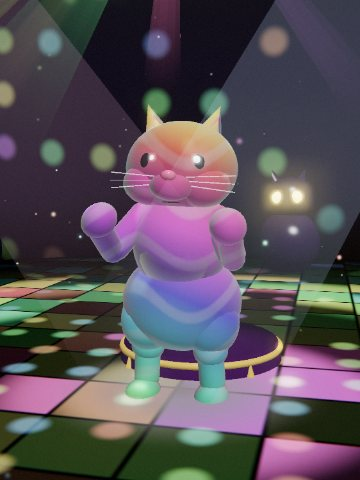
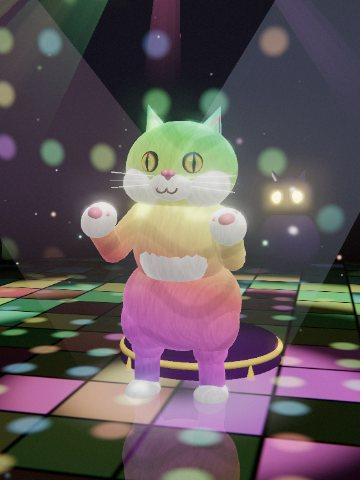
High-fidelity Disco Cat, and a real fire for Penny
Disco Cat: the fur pattern now lives in the cat's own space so it stays
put as it dances, with fine hair streaks, light that wraps round as it
does through fur, and a velvety sheen in place of the milky rim. Creamy
white chest, muzzle, cheeks and paws; eyes with flecked green-gold
irises, a dark rim, slit pupils that widen as the lights go down and
crisp catchlights; a heart-shaped nose, a little 'w' mouth, pink toe
beans. The dance floor is glossy and shows the cat's reflection (a
mirrored copy following every joint), with a soft contact shadow that
follows it. Floor smoothsteps rewritten with their edges in order.

Penny's fireplace: a real surround with an opening and a recessed,
sooty brick firebox; an iron grate of charred logs with glowing ends
over a bed of embers; flames drawn by a shader (white-yellow core,
orange body, red tips, licking upwards), sparks rising, and the fire's
light coming from inside the opening so the mantel no longer blazes.
hearth() lives in the interiors kit for other rooms.

Changed region(s): [[0.1833, 0.2188, 0.7333, 1.0], [0.7333, 0.75, 0.8556, 0.8438], [0.8861, 0.5938, 0.9472, 0.6562]]

diff --git a/web/scenes/disco.js b/web/scenes/disco.js
@@ -55,25 +55,56 @@ export function createDiscoScene({ mobile, seed }) {
     uBeat: { value: 0 }, uCam: { value: new THREE.Vector3() }, uSleep: { value: 0 }, uScale: { value: 800 }, uPool: { value: new THREE.Vector3() },
   };
 
-  // ------------------------------------------------------------------ the cat's fur: a rainbow that drifts through it
-  const furMat = keep(new THREE.ShaderMaterial({
+  // ------------------------------------------------------------------ the cat's fur
+  // The pattern lives in the cat's own space (so it stays put on the body as it dances): a rainbow
+  // drifting slowly through it, soft tabby stripes, fine streaks of hair, light that wraps round
+  // the way it does through fur, a velvety sheen at the edges, and the disco's spots. White fur
+  // (chest, muzzle, paws) is the same coat, creamy, with only a breath of rainbow in it.
+  const FURV = `uniform mat4 uCatInv; varying vec3 vW, vN, vC;
+    void main(){ vec4 w = modelMatrix * vec4(position, 1.); vW = w.xyz; vC = (uCatInv * w).xyz; vN = normalize(mat3(modelMatrix) * normal); gl_Position = projectionMatrix * viewMatrix * w; }`;
+  const FURF = `${DISCO} uniform vec3 uCam; uniform float uSleep, uWhite; varying vec3 vW, vN, vC;
+    float vn(vec2 p){ vec2 i = floor(p), f = fract(p); f = f * f * (3. - 2. * f); return mix(mix(dh(i), dh(i + vec2(1, 0)), f.x), mix(dh(i + vec2(0, 1)), dh(i + vec2(1, 1)), f.x), f.y); }
+    void main(){
+      vec3 n = normalize(vN); vec3 V = normalize(uCam - vW); vec3 L = normalize(vec3(.3, .8, .6));
+      float hue = vC.y * .3 + vC.x * .1 - vC.z * .08 + uTime * .03 + uHue;
+      float stripe = smoothstep(.5, .92, sin(vC.y * 15. + sin(vC.x * 7.) * 1.6 + vC.z * 4.)) * .22;
+      float hair = vn(vec2(vC.x * 70. + vC.z * 50., vC.y * 11.)) * .6 + vn(vec2(vC.x * 140. - vC.z * 90., vC.y * 24.)) * .4; // fine strands
+      vec3 fur = hsv(hue, .78, 1.) * (1. - stripe * .9);
+      fur = mix(fur, mix(vec3(1., .96, .93), hsv(hue, .22, 1.), .35), uWhite);
+      fur *= .82 + hair * .3;
+      float wrap = max((dot(n, L) + .45) / 1.45, 0.);                  // light wrapping round through the fur
+      float under = max(-n.y, 0.) * .3;
+      float sheen = pow(1. - max(dot(n, V), 0.), 2.2);                  // velvet: brighter at the grazing edges
+      vec3 col = fur * (.06 + .52 * wrap * (.5 + .5 * uDisco) + under * uDisco * .35);
+      col += fur * sheen * (.18 + .12 * uDisco) + hsv(hue + .5, .5, 1.) * sheen * sheen * .05 * uDisco;
+      col += fur * spots(vW, n) * .65;
+      gl_FragColor = vec4(max(col, 0.), 1.);
+    }`;
+  const catInv = { value: new THREE.Matrix4() }, mirrorInv = { value: new THREE.Matrix4() };
+  const furOf = (white, inv) => keep(new THREE.ShaderMaterial({ uniforms: { ...U, uCatInv: inv, uWhite: { value: white } }, vertexShader: FURV, fragmentShader: FURF }));
+  const furMat = furOf(0, catInv), whiteFur = furOf(1, catInv);
+  const mirrorMats = new Map([[furMat, furOf(0, mirrorInv)], [whiteFur, furOf(1, mirrorInv)]]);
+
+  // the eyes: a big glossy iris, green shading to gold, flecked, with a dark ring round it and a
+  // slit pupil that opens wide as the lights go down; two bright catchlights
+  const eyeShader = keep(new THREE.ShaderMaterial({
     uniforms: U,
-    vertexShader: `varying vec3 vW, vN, vL;
-      void main(){ vL = (modelMatrix * vec4(position, 1.)).xyz; vec4 w = modelMatrix * vec4(position, 1.); vW = w.xyz; vN = normalize(mat3(modelMatrix) * normal); gl_Position = projectionMatrix * viewMatrix * w; }`,
-    fragmentShader: `${DISCO} uniform vec3 uCam; uniform float uSleep; varying vec3 vW, vN, vL;
+    vertexShader: 'varying vec3 vP, vW, vN; void main(){ vP = normalize(position); vec4 w = modelMatrix * vec4(position, 1.); vW = w.xyz; vN = normalize(mat3(modelMatrix) * normal); gl_Position = projectionMatrix * viewMatrix * w; }',
+    fragmentShader: `${DISCO} uniform vec3 uCam; varying vec3 vP, vW, vN;
       void main(){
-        vec3 n = normalize(vN); vec3 V = normalize(uCam - vW);
-        float hue = vL.y * .32 + vL.x * .12 - vL.z * .08 + uTime * .035 + uHue;
-        // soft tabby stripes
-        float stripe = smoothstep(.55, .95, sin(vL.y * 16. + sin(vL.x * 7.) * 1.5 + vL.z * 4.)) * .18;
-        vec3 fur = hsv(hue, .82 - stripe, 1.);
-        // a soft key light from the front, the floor's glow from below, rainbow rim light, disco spots
-        float key = max(dot(n, normalize(vec3(.3, .8, .6))), 0.);
-        float under = max(-n.y, 0.) * .35;
-        float rim = pow(1. - max(dot(n, V), 0.), 2.5);
-        vec3 col = fur * (.07 + .5 * key * (.5 + .5 * uDisco) + under * uDisco * .4) + hsv(hue + .5, .75, 1.) * rim * (.07 + .11 * uDisco);
-        col += fur * spots(vW, n) * .7;
-        gl_FragColor = vec4(col, 1.);
+        vec3 n = normalize(vN), V = normalize(uCam - vW);
+        vec2 p = vP.xy; float r = length(p);
+        float ang = atan(p.y, p.x);
+        vec3 iris = mix(vec3(.18, .42, .1), vec3(.62, .48, .08), smoothstep(.1, .75, r));
+        iris *= .75 + .35 * dh(vec2(floor(ang * 9.), 3.)) * smoothstep(.15, .7, r);   // flecks
+        iris = mix(iris, vec3(.02, .03, .02), smoothstep(.62, .85, r));                  // the dark ring
+        float slit = mix(.42, .17, uDisco);                                              // wider in the dark
+        float pupil = (1. - smoothstep(slit * .7, slit, abs(p.x) / max(.02, 1. - p.y * p.y * .9))) * step(abs(p.y), .78);
+        vec3 col = mix(iris, vec3(.005, .005, .01), pupil) * (.3 + .55 * max(vP.z, 0.));
+        vec3 L = normalize(vec3(-.35, .7, .6)), L2 = normalize(vec3(.4, .3, .8));
+        col += vec3(1.) * pow(max(dot(reflect(-V, n), L), 0.), 220.) * 1.3 + vec3(1.) * pow(max(dot(reflect(-V, n), L2), 0.), 500.) * .7;
+        col += spots(vW, n) * .12;
+        gl_FragColor = vec4(max(col, 0.), 1.);
       }`,
   }));
   const plain = (hex, glow = 0) => keep(new THREE.ShaderMaterial({
@@ -86,7 +117,7 @@ export function createDiscoScene({ mobile, seed }) {
         vec3 col = uCol * (.1 + .6 * key + uGlowAmt) + vec3(1.) * spec * .6 + uCol * spots(vW, n) * .5;
         gl_FragColor = vec4(col, 1.); }`,
   }));
-  const pinkMat = plain('#ff8fb8', 0.1), eyeMat = plain('#140c1c'), whiteMat = plain('#ffffff', 0.8), mouthMat = plain('#5a1830', 0.05), velvet = plain('#5a1a6a', 0.04), gold = plain('#e8c060', 0.15), kitMat = plain('#3a2650', 0.03), kitEye = plain('#ffe27a', 1.6);
+  const pinkMat = plain('#ff8fb8', 0.1), beanMat = plain('#f2879e', 0.12), lineMat = plain('#6a2a3a', 0.02), eyeMat = eyeShader, whiteMat = plain('#ffffff', 0.8), mouthMat = plain('#5a1830', 0.05), velvet = plain('#5a1a6a', 0.04), gold = plain('#e8c060', 0.15), kitMat = plain('#3a2650', 0.03), kitEye = plain('#ffe27a', 1.6);
 
   // ------------------------------------------------------------------ the cat: a chubby dancer with arms and legs that bend
   // Root at the floor facing +z; the pelvis carries the body, the spine leans and sways, arms and legs
@@ -101,21 +132,23 @@ export function createDiscoScene({ mobile, seed }) {
   add(pelvis, sph(0.5), furMat, [0, 0.02, -0.05], [1, 0.82, 0.95]); // hips
   const spine = new THREE.Group(); spine.position.y = 0.18; pelvis.add(spine);
   const chest = add(spine, sph(0.42), furMat, [0, 0.36, 0.05], [0.95, 1.1, 0.88]);
-  add(spine, sph(0.3), furMat, [0, 0.3, 0.2], [1.05, 1.1, 0.7]); // a soft round tummy
+  add(spine, sph(0.3), whiteFur, [0, 0.3, 0.2], [1.05, 1.1, 0.7]); // a soft round tummy, white
   const head = new THREE.Group(); head.position.set(0, 0.93, 0.1); spine.add(head);
   add(head, sph(0.4, 32, 24), furMat, [0, 0, 0], [1.12, 0.93, 0.95]);
   for (const sx of [-1, 1]) {
-    add(head, sph(0.2), furMat, [sx * 0.2, -0.12, 0.17], [1.1, 0.85, 0.9]); // cheeks
+    add(head, sph(0.2), whiteFur, [sx * 0.2, -0.12, 0.17], [1.1, 0.85, 0.9]); // cheeks
     const ear = add(head, keep(new THREE.ConeGeometry(0.16, 0.34, 4)), furMat, [sx * 0.24, 0.34, -0.03], [1, 1, 0.7], [0, Math.PI / 4, sx * -0.38]);
     add(ear, keep(new THREE.ConeGeometry(0.09, 0.22, 4)), pinkMat, [0, -0.02, 0.05], [1, 1, 0.4]);
   }
-  add(head, sph(0.14), furMat, [0, -0.13, 0.3], [1.25, 0.8, 1]); // muzzle
-  add(head, sph(0.045), pinkMat, [0, -0.05, 0.42], [1.3, 0.85, 1]); // nose
+  add(head, sph(0.14), whiteFur, [0, -0.13, 0.3], [1.25, 0.8, 1]); // muzzle
+  // a heart-shaped nose, and a little 'w' of a mouth under it
+  for (const sx of [-1, 1]) add(head, sph(0.03), pinkMat, [sx * 0.022, -0.035, 0.425], [1.1, 0.8, 0.8]);
+  add(head, keep(new THREE.ConeGeometry(0.036, 0.05, 12)), pinkMat, [0, -0.07, 0.425], [1.15, 1, 0.6], [Math.PI, 0, 0]);
+  for (const sx of [-1, 1]) add(head, keep(new THREE.TorusGeometry(0.038, 0.007, 6, 14, Math.PI)), lineMat, [sx * 0.038, -0.14, 0.452], [1, 1, 1], [-0.3, 0, Math.PI]);
   const mouth = add(head, sph(0.07), mouthMat, [0, -0.25, 0.33], [1, 0.05, 0.5]); // opens wide for a yawn
   const eyes = [];
   for (const sx of [-1, 1]) {
-    const eye = add(head, sph(0.085), eyeMat, [sx * 0.165, 0.04, 0.3], [1, 1, 0.55]);
-    add(eye, sph(0.028), whiteMat, [0.025, 0.03, 0.07]); // the sparkle in its eye
+    const eye = add(head, sph(0.085), eyeMat, [sx * 0.16, 0.04, 0.325], [1, 1, 0.55], [0, sx * 0.42, 0]); // turned to follow the curve of the face, so the iris looks out
     eyes.push(eye);
   }
   {
@@ -130,7 +163,10 @@ export function createDiscoScene({ mobile, seed }) {
     add(sh, limb(0.12, 0.1, 0.36), furMat, [0, 0, 0]);
     const el = new THREE.Group(); el.position.y = -0.4; sh.add(el);
     add(el, limb(0.1, 0.09, 0.32), furMat, [0, 0, 0]);
-    add(el, sph(0.13), furMat, [0, -0.4, 0.03], [1, 0.8, 1.1]); // paw
+    add(el, sph(0.13), whiteFur, [0, -0.4, 0.03], [1, 0.8, 1.1]); // paw, white
+    // toe beans on the underside, seen whenever a paw is raised
+    add(el, sph(0.05), beanMat, [0, -0.49, 0.03], [1.2, 0.5, 1]);
+    for (let k = 0; k < 4; k++) add(el, sph(0.024), beanMat, [(k - 1.5) * 0.045, -0.47, 0.1 - Math.abs(k - 1.5) * 0.02], [1, 0.6, 1]);
     return { sh, el, sx };
   });
   const legs = [-1, 1].map((sx) => {
@@ -139,12 +175,23 @@ export function createDiscoScene({ mobile, seed }) {
     add(hip, limb(0.16, 0.13, 0.26), furMat, [0, -0.04, 0]);
     const kn = new THREE.Group(); kn.position.y = -0.34; hip.add(kn);
     add(kn, limb(0.12, 0.1, 0.24), furMat, [0, 0, 0]);
-    add(kn, sph(0.14), furMat, [0, -0.33, 0.1], [1, 0.6, 1.5]); // foot
+    add(kn, sph(0.14), whiteFur, [0, -0.33, 0.1], [1, 0.6, 1.5]); // foot, white
     return { hip, kn, sx };
   });
   // the tail: a chain of shrinking spheres placed along a curve each frame
   const TAIL = 40, tail = [];
   for (let k = 0; k < TAIL; k++) tail.push(add(cat, sph(0.095 - k * 0.0011, 14, 10), furMat, [0, 0, 0]));
+
+  // its reflection in the glossy floor: a mirrored copy that copies every joint each frame
+  const mirror = cat.clone(true); scene.add(mirror);
+  mirror.traverse((o) => { if (o.isMesh && mirrorMats.has(o.material)) o.material = mirrorMats.get(o.material); });
+  const srcNodes = [], dstNodes = []; cat.traverse((o) => srcNodes.push(o)); mirror.traverse((o) => dstNodes.push(o));
+  function reflect() {
+    for (let i = 1; i < srcNodes.length; i++) { const a = srcNodes[i], b = dstNodes[i]; b.position.copy(a.position); b.quaternion.copy(a.quaternion); b.scale.copy(a.scale); b.visible = a.visible; }
+    mirror.position.set(cat.position.x, -cat.position.y, cat.position.z); mirror.quaternion.copy(cat.quaternion); mirror.scale.set(1, -1, 1);
+    cat.updateMatrixWorld(); mirror.updateMatrixWorld();
+    catInv.value.copy(cat.matrixWorld).invert(); mirrorInv.value.copy(mirror.matrixWorld).invert();
+  }
 
   // a velvet cushion to sleep on, behind the dance spot
   const CUSHION = new THREE.Vector3(0, 0, -1.0);
@@ -172,12 +219,12 @@ export function createDiscoScene({ mobile, seed }) {
 
   // ------------------------------------------------------------------ the dance floor
   const floor = new THREE.Mesh(keep(new THREE.CircleGeometry(9, 64)), keep(new THREE.ShaderMaterial({
-    uniforms: U,
+    uniforms: U, transparent: true,
     vertexShader: `varying vec3 vW; void main(){ vec4 w = modelMatrix * vec4(position, 1.); vW = w.xyz; gl_Position = projectionMatrix * viewMatrix * w; }`,
     fragmentShader: `${DISCO} uniform float uBeat; uniform vec3 uCam, uPool; varying vec3 vW;
       void main(){
         vec2 g = vW.xz / .8; vec2 id = floor(g); vec2 f = fract(g);
-        float grout = smoothstep(.0, .05, f.x) * smoothstep(1., .95, f.x) * smoothstep(.0, .05, f.y) * smoothstep(1., .95, f.y);
+        float grout = smoothstep(.0, .05, f.x) * (1. - smoothstep(.95, 1., f.x)) * smoothstep(.0, .05, f.y) * (1. - smoothstep(.95, 1., f.y));
         float r = length(vW.xz);
         // tiles light up in slow waves rolling out from the cat, and flash with the beat
         float wave = .5 + .5 * sin(r * 1.4 - uTime * 1.2 + dh(id) * 2.);
@@ -187,11 +234,12 @@ export function createDiscoScene({ mobile, seed }) {
         // a soft glossy sheen and a dark contact shadow under the cat
         vec3 V = normalize(uCam - vW);
         col += vec3(.6, .55, .8) * pow(max(V.y, 0.), 12.) * .05;
-        col *= smoothstep(.35, 1.1, r) * .75 + .25;
+        float dc = length(vW.xz - uPool.xz);
         col += spots(vW, vec3(0., 1., 0.)) * .35;
-        col += vec3(1., .9, .95) * smoothstep(1.2, .25, length(vW.xz - uPool.xz)) * (.1 + .12 * uDisco); // the follow-spots' pool
-        col *= smoothstep(9., 4., r);
-        gl_FragColor = vec4(col, 1.);
+        col += vec3(1., .9, .95) * (1. - smoothstep(.25, 1.2, dc)) * (.1 + .12 * uDisco); // the follow-spots' pool
+        col *= 1. - .55 * exp(-dc * dc * 4.5);                                            // soft contact shadow under the cat
+        col *= 1. - smoothstep(4., 9., r);
+        gl_FragColor = vec4(max(col, 0.), .8);                                            // a little see-through: the reflection shows
       }`,
   })));
   floor.rotation.x = -Math.PI / 2;
@@ -402,7 +450,7 @@ export function createDiscoScene({ mobile, seed }) {
     head.rotation.set(P.hx + Math.sin(t * 0.7) * 0.02, P.hy, P.hz);
     arms.forEach((A, i) => { const [sx, sz, ex] = P.arm[i]; A.sh.rotation.set(sx, 0, A.sx * sz); A.el.rotation.set(ex, 0, 0); });
     legs.forEach((L, i) => { const [hx, hz, kx] = P.leg[i]; L.hip.rotation.set(hx, 0, L.sx * hz); L.kn.rotation.set(kx, 0, 0); });
-    mouth.scale.set(1, 0.05 + P.mouth * 0.85, 0.5);
+    mouth.scale.set(1, 0.05 + P.mouth * 0.85, 0.5); mouth.visible = P.mouth > 0.04;
     const breathe = Math.sin(t * (1.2 - sleep * 0.5)) * 0.012; chest.scale.set(0.95 + breathe, 1.1 + breathe * 1.5, 0.88 + breathe);
     // blinking, then eyes closing as it nods off
     if (t > blinkAt) blinkAt = t + 2.5 + rand() * 4;
@@ -450,6 +498,7 @@ export function createDiscoScene({ mobile, seed }) {
     look.set(cat.position.x * 0.8, lerp(0.95, 1.25, stand) - sleep * 0.45, cat.position.z * 0.8);
     camera.lookAt(look);
     U.uCam.value.copy(camera.position);
+    reflect();
   }
 
   return {

diff --git a/web/scenes/interior.js b/web/scenes/interior.js
@@ -1,7 +1,7 @@
 // Interiors for the dream worlds: rooms with painted walls and floors (stone, brick, plaster,
 // boards), windows that let the moonlight in as shafts full of dust, candles and fires that
 // flicker, and a few bits of furniture.
-import { THREE, canvasTexture, shaft, TAU } from './kit.js';
+import { THREE, canvasTexture, shaft, motes, TAU } from './kit.js';
 
 /** Painted textures: 'stone' blocks, 'brick', 'planks', 'plaster', 'tiles' (checkerboard). */
 export function surface(S, kind, { color = '#8a7a66', repeat = [4, 4] } = {}) {
@@ -107,4 +107,109 @@ export function fire(S, { pos, width = 0.8, intensity = 6, distance = 10, color 
     embers.material.color.setRGB(1, 0.32 + 0.08 * Math.sin(t * 2.3), 0.1);
   });
   return { light: l };
+}
+
+// ------------------------------------------------------------------ a real fireplace
+const NOISE = `
+  float hh(vec2 p){ p = fract(p * vec2(123.34, 456.21)); p += dot(p, p + 45.32); return fract(p.x * p.y); }
+  float vn(vec2 p){ vec2 i = floor(p), f = fract(p); f = f * f * (3. - 2. * f); return mix(mix(hh(i), hh(i + vec2(1, 0)), f.x), mix(hh(i + vec2(0, 1)), hh(i + vec2(1, 1)), f.x), f.y); }
+  float fbm(vec2 p){ return .5 * vn(p) + .27 * vn(p * 2.1 + 3.1) + .15 * vn(p * 4.3 + 7.7) + .08 * vn(p * 8.9 + 1.3); }`;
+
+/**
+ * A fireplace set into a wall: a painted surround with a proper opening, a recessed firebox of
+ * sooty brick, an iron grate holding charred logs whose ends glow, a bed of embers, flames drawn
+ * by a shader (a white-yellow core, orange body, red tips, licking upwards and never the same
+ * twice), sparks drifting up the chimney, and the fire's light coming from inside the opening.
+ * `wallZ` is the wall's face; the fireplace stands out from it towards +z.
+ */
+export function hearth(S, { x = 0, wallZ, width = 2.5, height = 1.4, depth = 0.5, opening = [1.3, 0.9], surround = '#d9cfbd', intensity = 4.5 }) {
+  const g = new THREE.Group(); g.position.set(x, 0, wallZ); S.add(g);
+  const [ow, oh] = opening, front = depth, side = (width - ow) / 2;
+  const paint = S.mat(surround);
+  // the surround: two pillars and a lintel, leaving the opening
+  for (const sx of [-1, 1]) { const p = new THREE.Mesh(softBox(side, height, depth, 0.03), paint); p.position.set(sx * (ow / 2 + side / 2), height / 2, depth / 2); g.add(p); }
+  const lintel = new THREE.Mesh(softBox(ow + 0.02, height - oh, depth, 0.03), paint); lintel.position.set(0, oh + (height - oh) / 2, depth / 2); g.add(lintel);
+  // a slim moulding round the opening
+  const trim = S.mat('#c4b8a2');
+  for (const sx of [-1, 1]) { const t = new THREE.Mesh(new THREE.BoxGeometry(0.05, oh, 0.03), trim); t.position.set(sx * (ow / 2 + 0.025), oh / 2, front + 0.01); g.add(t); }
+  { const t = new THREE.Mesh(new THREE.BoxGeometry(ow + 0.1, 0.05, 0.03), trim); t.position.set(0, oh + 0.025, front + 0.01); g.add(t); }
+  // the firebox: sooty brick on the back and the angled sides, a blackened ceiling and floor
+  const brick = surface(S, 'brick', { color: '#4a2f24', repeat: [2, 1.5] });
+  const sooty = S.keep(new THREE.MeshLambertMaterial({ map: brick, color: '#8a7a70' }));
+  const back = new THREE.Mesh(new THREE.PlaneGeometry(ow * 0.72, oh), sooty); back.position.set(0, oh / 2, 0.03); g.add(back);
+  for (const sx of [-1, 1]) {
+    const a = new THREE.Vector3(sx * ow / 2, 0, front), b = new THREE.Vector3(sx * ow * 0.36, 0, 0.03), len = a.distanceTo(b);
+    const sd = new THREE.Mesh(new THREE.PlaneGeometry(len, oh), sooty); sd.position.set((a.x + b.x) / 2, oh / 2, (a.z + b.z) / 2); sd.rotation.y = Math.atan2(b.z - a.z, b.x - a.x) * -1 + (sx > 0 ? Math.PI : 0); sd.material.side = THREE.DoubleSide; g.add(sd);
+  }
+  const ceil = new THREE.Mesh(new THREE.PlaneGeometry(ow, front), S.mat('#120c0a')); ceil.rotation.x = Math.PI / 2; ceil.position.set(0, oh, front / 2); g.add(ceil);
+  const floorIn = new THREE.Mesh(new THREE.PlaneGeometry(ow, front), S.mat('#1a1412')); floorIn.rotation.x = -Math.PI / 2; floorIn.position.set(0, 0.004, front / 2); g.add(floorIn);
+
+  // the grate: an iron basket on little legs
+  const iron = S.mat('#1c1a1a'), gz = front * 0.5, gw = ow * 0.58;
+  for (let k = 0; k < 7; k++) { const bar = new THREE.Mesh(new THREE.CylinderGeometry(0.008, 0.008, 0.2, 5), iron); bar.position.set(-gw / 2 + (k / 6) * gw, 0.16, gz + 0.12); g.add(bar); }
+  for (const y of [0.07, 0.25]) { const rail = new THREE.Mesh(new THREE.BoxGeometry(gw, 0.018, 0.018), iron); rail.position.set(0, y, gz + 0.12); g.add(rail); }
+  { const basePlate = new THREE.Mesh(new THREE.BoxGeometry(gw, 0.015, 0.26), iron); basePlate.position.set(0, 0.07, gz); g.add(basePlate); }
+  for (const sx of [-1, 1]) for (const sz of [-1, 1]) { const leg = new THREE.Mesh(new THREE.CylinderGeometry(0.012, 0.012, 0.07, 5), iron); leg.position.set(sx * gw * 0.45, 0.035, gz + sz * 0.11); g.add(leg); }
+
+  // logs: bark, and ends glowing where they've burned
+  const bark = canvasTexture(S, 64, 128, (c, w, h) => { c.fillStyle = '#2e2018'; c.fillRect(0, 0, w, h); for (let k = 0; k < 90; k++) { c.fillStyle = Math.random() < 0.5 ? 'rgba(10,6,4,.7)' : 'rgba(90,64,44,.5)'; c.fillRect(Math.random() * w, Math.random() * h, 1 + Math.random() * 3, 6 + Math.random() * 20); } });
+  const barkM = S.keep(new THREE.MeshLambertMaterial({ map: bark }));
+  const glowEnd = S.keep(new THREE.ShaderMaterial({
+    uniforms: { uTime: S.U.uTime }, vertexShader: 'varying vec2 vUv; void main(){ vUv = uv; gl_Position = projectionMatrix * modelViewMatrix * vec4(position, 1.); }',
+    fragmentShader: `${NOISE} uniform float uTime; varying vec2 vUv; void main(){ vec2 c = vUv - .5; float r = length(c) * 2.; float n = fbm(c * 9. + uTime * .3); float hot = (1. - smoothstep(.2, 1., r)) * (.5 + .7 * n); vec3 col = mix(vec3(.25, .04, .01), vec3(1., .45, .08), clamp(hot, 0., 1.)); gl_FragColor = vec4(col * (.4 + hot * 1.4), 1.); }`,
+  }));
+  const LOGS = [[-0.12, 0.14, -0.08, 0.3, 0.07], [0.12, 0.14, -0.06, -0.25, 0.065], [0.0, 0.24, -0.03, 0.05, 0.06]];
+  for (const [lx, ly, lz, ry, r] of LOGS) {
+    const lg = new THREE.Group(); lg.position.set(lx, ly, gz + lz); lg.rotation.y = ry; g.add(lg);
+    const body = new THREE.Mesh(new THREE.CylinderGeometry(r, r * 1.05, 0.5, 10), barkM); body.rotation.z = Math.PI / 2; lg.add(body);
+    for (const sx of [-1, 1]) { const end = new THREE.Mesh(new THREE.CircleGeometry(r * 0.96, 14), glowEnd); end.position.x = sx * 0.251; end.rotation.y = sx * Math.PI / 2; lg.add(end); }
+  }
+  // the ember bed under the logs
+  const embers = new THREE.Mesh(new THREE.PlaneGeometry(gw * 0.95, 0.24), new THREE.ShaderMaterial({
+    uniforms: { uTime: S.U.uTime }, vertexShader: 'varying vec2 vUv; void main(){ vUv = uv; gl_Position = projectionMatrix * modelViewMatrix * vec4(position, 1.); }',
+    fragmentShader: `${NOISE} uniform float uTime; varying vec2 vUv; void main(){ float n = fbm(vUv * vec2(14., 6.) + vec2(uTime * .05, uTime * .12)), m = fbm(vUv * vec2(30., 12.) - uTime * .2); float hot = smoothstep(.35, .8, n) * (.6 + .6 * m); vec3 col = mix(vec3(.08, .02, .01), vec3(1., .38, .06), clamp(hot, 0., 1.)); col += vec3(1., .8, .4) * smoothstep(.75, 1., hot) * .6; float edge = smoothstep(0., .15, vUv.x) * smoothstep(0., .15, 1. - vUv.x) * smoothstep(0., .2, vUv.y) * smoothstep(0., .2, 1. - vUv.y); gl_FragColor = vec4(col * edge, 1.); }`,
+  }));
+  S.keep(embers.material); embers.rotation.x = -Math.PI / 2; embers.position.set(0, 0.082, gz); g.add(embers);
+
+  // the flames: shader quads that turn to face you, each licking and flickering in its own way
+  const flameMat = (seed, amt) => S.keep(new THREE.ShaderMaterial({
+    uniforms: { uTime: S.U.uTime, uSeed: { value: seed }, uAmt: { value: amt } }, transparent: true, depthWrite: false, blending: THREE.AdditiveBlending, toneMapped: false, side: THREE.DoubleSide,
+    vertexShader: 'varying vec2 vUv; void main(){ vUv = uv; gl_Position = projectionMatrix * modelViewMatrix * vec4(position, 1.); }',
+    fragmentShader: `${NOISE} uniform float uTime, uSeed, uAmt; varying vec2 vUv;
+      void main(){
+        vec2 uv = vUv;
+        float n = fbm(vec2(uv.x * 2.6 + uSeed, uv.y * 2.2 - uTime * 1.5));
+        float n2 = fbm(vec2(uv.x * 5.5 - uSeed * 1.7, uv.y * 4.5 - uTime * 2.3));
+        float x = (uv.x - .5) * 2. + (n - .5) * .9 * uv.y;  // the flame sways more the higher it goes
+        float w = mix(.9, .06, pow(uv.y, .75));            // wide at the base, a point at the top
+        float body = 1. - smoothstep(w * .35, w, abs(x));
+        float top = 1. - smoothstep(.35, 1., uv.y + (n2 - .5) * .45);
+        float base = smoothstep(0., .1, uv.y);
+        float f = clamp(body * top * base * (.65 + .6 * n2), 0., 1.);
+        vec3 col = mix(vec3(.75, .12, .02), vec3(1., .5, .08), smoothstep(.12, .5, f));
+        col = mix(col, vec3(1., .9, .62), smoothstep(.62, .95, f));
+        gl_FragColor = vec4(max(col * f * uAmt, 0.), 1.);
+      }`,
+  }));
+  const flames = [];
+  const FL = [[-0.16, 0.34, 0.5, 0.8], [0.0, 0.42, 0.62, 1.0], [0.15, 0.32, 0.48, 0.75], [-0.05, 0.28, 0.4, 0.6], [0.08, 0.36, 0.55, 0.85]];
+  FL.forEach(([fx, w, h, amt], i) => {
+    const m = new THREE.Mesh(new THREE.PlaneGeometry(w, h), flameMat(i * 3.7 + S.rand() * 10, amt * 1.15));
+    m.geometry.translate(0, h / 2, 0); m.position.set(fx, 0.13, gz + 0.02 - i * 0.012); g.add(m); flames.push(m);
+  });
+  motes(S, { kind: 'spark', count: 18, box: [gw * 0.8, 1.1, 0.2], center: [x, 0.75, wallZ + gz], color: '#ffa04a', size: 0.022, speed: 0.55 });
+
+  // the light comes from inside the opening, low, so the surround is lit by it rather than blazing
+  const light = new THREE.PointLight('#ff8f42', intensity, 8.5, 2); light.position.set(0, 0.32, front + 0.12); g.add(light);
+  const glowTex = canvasTexture(S, 64, 64, (c) => { const gr = c.createRadialGradient(32, 32, 0, 32, 32, 32); gr.addColorStop(0, 'rgba(255,140,60,.55)'); gr.addColorStop(1, 'rgba(255,120,40,0)'); c.fillStyle = gr; c.fillRect(0, 0, 64, 64); });
+  const hearthGlow = new THREE.Mesh(new THREE.PlaneGeometry(1.6, 0.9), new THREE.MeshBasicMaterial({ map: glowTex, transparent: true, depthWrite: false, blending: THREE.AdditiveBlending, toneMapped: false })); hearthGlow.rotation.x = -Math.PI / 2; hearthGlow.position.set(0, 0.07, front + 0.35); g.add(hearthGlow);
+  const tmp = new THREE.Vector3();
+  S.on((t) => {
+    const flick = 0.8 + 0.12 * Math.sin(t * 5.3) + 0.08 * Math.sin(t * 13.1 + 1.3) + 0.05 * Math.sin(t * 23.7);
+    light.intensity = intensity * flick; hearthGlow.material.opacity = 0.3 + 0.2 * flick;
+    // turn each flame to face the camera, around the upright only
+    S.camera.getWorldPosition(tmp); g.worldToLocal(tmp);
+    for (const m of flames) m.rotation.y = Math.atan2(tmp.x - m.position.x, tmp.z - m.position.z);
+  });
+  return { group: g, light };
 }

diff --git a/web/scenes/dream/penny.js b/web/scenes/dream/penny.js
@@ -7,7 +7,7 @@
 import { createStage, motes, box, cyl, canvasTexture, model, THREE, TAU } from '../kit.js';
 import { tabby } from '../tabby.js';
 import { pennyLife } from './penny-life.js';
-import { surface, room, moonWindow, fire, candle, softBox } from '../interior.js';
+import { surface, room, moonWindow, candle, softBox, hearth } from '../interior.js';
 
 export function createPennyScene({ mobile, seed }) {
   const S = createStage({ mobile, seed, salt: 0x9e77, bg: '#0a0806', fog: { color: '#140e0a', near: 7, far: 30 }, exposure: 1.12, bloom: [0.55, 0.5, 0.66], finish: { vignette: 0.46, grain: 0.024, ca: 0.25 }, fov: 46 });
@@ -54,12 +54,9 @@ export function createPennyScene({ mobile, seed }) {
 
   // the fireplace: a painted surround, a stone hearth, a mantel with candles and a clock
   const fz = -D / 2;
-  soft(2.5, 1.4, 0.5, 0.04, '#e8e0d0', [0, 0.7, fz + 0.25]);
-  box(S, [1.3, 0.9, 0.52], '#120c08', [0, 0.45, fz + 0.26]);
+  hearth(S, { wallZ: fz, intensity: 4.5 });
   soft(2.8, 0.1, 0.66, 0.03, '#ddd3c2', [0, 1.45, fz + 0.33]);
   soft(2.7, 0.06, 0.7, 0.02, '#6e6760', [0, 0.03, fz + 0.85]); // hearth stone
-  fire(S, { pos: [0, 0.12, fz + 0.45], width: 0.7, intensity: 7, distance: 9, flames: 4 });
-  for (let k = 0; k < 3; k++) { const l = new THREE.Mesh(new THREE.CylinderGeometry(0.06, 0.06, 0.5, 8), S.mat('#3a2416')); l.rotation.set(0, 0.3 * k - 0.3, Math.PI / 2); l.position.set(-0.1 + k * 0.1, 0.1 + (k === 1 ? 0.1 : 0), fz + 0.45); S.add(l); }
   for (const x of [-1, 1]) { cyl(S, 0.05, 0.06, 0.04, '#b08a3a', [x * 0.95, 1.52, fz + 0.35], 8); candle(S, { pos: [x * 0.95, 1.54, fz + 0.35], h: 0.22, light: x > 0, intensity: 1, distance: 5 }); }
   const mclock = new THREE.Mesh(new THREE.CylinderGeometry(0.16, 0.16, 0.06, 24), S.mat('#c9b27a')); mclock.rotation.x = Math.PI / 2; mclock.position.set(0, 1.68, fz + 0.33); S.add(mclock);
   const art = canvasTexture(S, 256, 180, (g, w, h) => { const gr = g.createLinearGradient(0, 0, 0, h); gr.addColorStop(0, '#2a3a6a'); gr.addColorStop(0.6, '#c98a5a'); gr.addColorStop(1, '#3a5a2a'); g.fillStyle = gr; g.fillRect(0, 0, w, h); g.fillStyle = '#2a4a22'; g.beginPath(); g.moveTo(0, h * 0.7); for (let x = 0; x <= w; x += 16) g.lineTo(x, h * 0.65 + Math.sin(x * 0.03) * 14); g.lineTo(w, h); g.lineTo(0, h); g.fill(); g.strokeStyle = '#8a6a2a'; g.lineWidth = 14; g.strokeRect(0, 0, w, h); });

diff --git a/web/sw.js b/web/sw.js
@@ -1,5 +1,5 @@
 // Offline support: network first (so updates show straight away), cached copy when offline.
-const CACHE = 'lullwave-v19';
+const CACHE = 'lullwave-v20';
 const J = './vendor/three/examples/jsm/';
 const CORE = ['./', './index.html', './main.js', './audio.js', './render.js',
   './music/voices.js', './music/cave.js', './music/drive.js', './music/ocean.js', './music/aurora.js', './music/rain.js', './music/space.js', './music/disco.js', './music/nature.js', './music/eventing.js', './music/cotswold.js', './scenes/cave.js', './scenes/drive.js', './scenes/ocean.js', './scenes/aurora.js', './scenes/rain.js', './scenes/space.js', './scenes/disco.js', './scenes/country.js', './scenes/eventing.js', './scenes/cotswold.js', './scenes/kit.js', './scenes/tabby.js', './scenes/dream/penny-life.js', J + 'loaders/GLTFLoader.js', './models/penny/ArmChair_01.glb', './models/penny/ClassicNightstand_01.glb', './models/penny/Ottoman_01.glb', './models/penny/Sofa_01.glb', './models/penny/potted_plant_04.glb', './models/penny/throw_pillows_01.glb', './models/penny/vintage_grandfather_clock_01.glb', './models/penny/vintage_oil_lamp.glb', './models/penny/wicker_basket_01.glb', './models/penny/wooden_bookshelf_worn.glb',  './scenes/figures.js', './scenes/interior.js', './music/ambient.js', './music/profiles.js', './music/bespoke.js', './music/xmas.js', './music/choirsong.js', './music/pizzeria.js', './music/feversong.js', './music/canalsong.js', './music/pennysong.js', './scenes/dream/meadow.js', './scenes/dream/estate.js', './scenes/dream/woolpack.js', './scenes/dream/canal.js', './scenes/dream/stables.js', './scenes/dream/market.js', './scenes/dream/trail.js', './scenes/dream/choir.js', './scenes/dream/penny.js', './scenes/dream/pizza.js', './scenes/dream/lost.js', './scenes/dream/stardome.js', './scenes/dream/bakery.js', './scenes/dream/fever.js',
